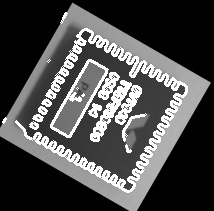
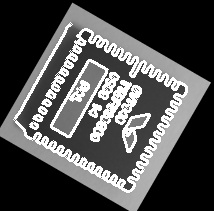
依然加入判断点是否在边缘上的问题，不知道为什么模板上面四个点上有轮廓点

diff --git a/src/create_template_pc/contour_detection.cpp b/src/create_template_pc/contour_detection.cpp
@@ -536,7 +536,7 @@ static int do_create_template(TemplateStruct &tpl, const cv::Mat &src, const cv:
             p.y = i;
             // 最小距离是多少还需要斟酌，因为在最小分辨率情况下看到边框还是没有去除掉，在最小分辨情况下这个dist太小了。
             // todo 这里由于使用了位与操作，所以不用再判断距离了
-            if (U8 /*&& dist_to_lines_less_than(rect, p, (tpl.modelHeight + tpl.modelWidth) / 100.0)*/) {
+            if (U8 && dist_to_lines_less_than(rect, p, (tpl.modelHeight + tpl.modelWidth) / 200.0)) {
                 /* 如果梯度都为零，那么不需要计算，因为分数不会有贡献 */
                 if (fdx != 0 || fdy != 0) {
                     /* 坐标变换到外接矩形左上角为(0, 0) */
@@ -592,8 +592,8 @@ static void draw_template(cv::Mat src, const TemplateStruct &tpl)
     for (UINT32 i = 0; i < tpl.noOfCordinates; ++i) {
         cv::circle(src, cv::Point(tpl.cordinates[i].x + tpl.centerOfGravity.x, tpl.cordinates[i].y + tpl.centerOfGravity.y), 1, cv::Scalar(255,255,255));
     }
-    cv::imshow("hehe", src);
-    cvWaitKey(0);
+//    cv::imshow("hehe", src);
+//    cvWaitKey(0);
 }
 
 // TODO 发送给客户端以后需要释放
@@ -800,7 +800,9 @@ static int do_create_template(const cv::Mat &src, const cv::Mat &bitMap, Koyo_To
         std::vector<TemplateStruct> cur_level_tpl;
         int k = 0;
         std::vector<cv::Point> cur_rect = {{0,0}, {0, pyramid_templates[i].rows - 1}, {pyramid_templates[i].cols - 1, pyramid_templates[i].rows - 1}, {pyramid_templates[i].cols - 1, 0}};
-        for (double j = 0.0; j < MAX_DEGREE; j += angle_steps[i]) {
+        // todo angle_step是否考虑做成整数
+        for (double j = 0.0; (int)j < MAX_DEGREE; j += angle_steps[i]) {
+//            std::cout << j << " " << (int)j << std::endl;
             TemplateStruct tpl;
             auto rect = cur_rect;
             cv::Mat rotated_image;

diff --git a/test/cydpc/main.cpp b/test/cydpc/main.cpp
@@ -174,7 +174,7 @@ int main(int argc, char *argv[])
 
     // 将模板信息导入到变量kctrp上
     Koyo_Contour_Template_Runtime_Param kctrp;
-    unpack_template("template_file", kctrp);
+    unpack_template("template_file_good", kctrp);
 
     // 进行待测图和模板的匹配
     match_sample_template(sample_image_gray, kctrp);
